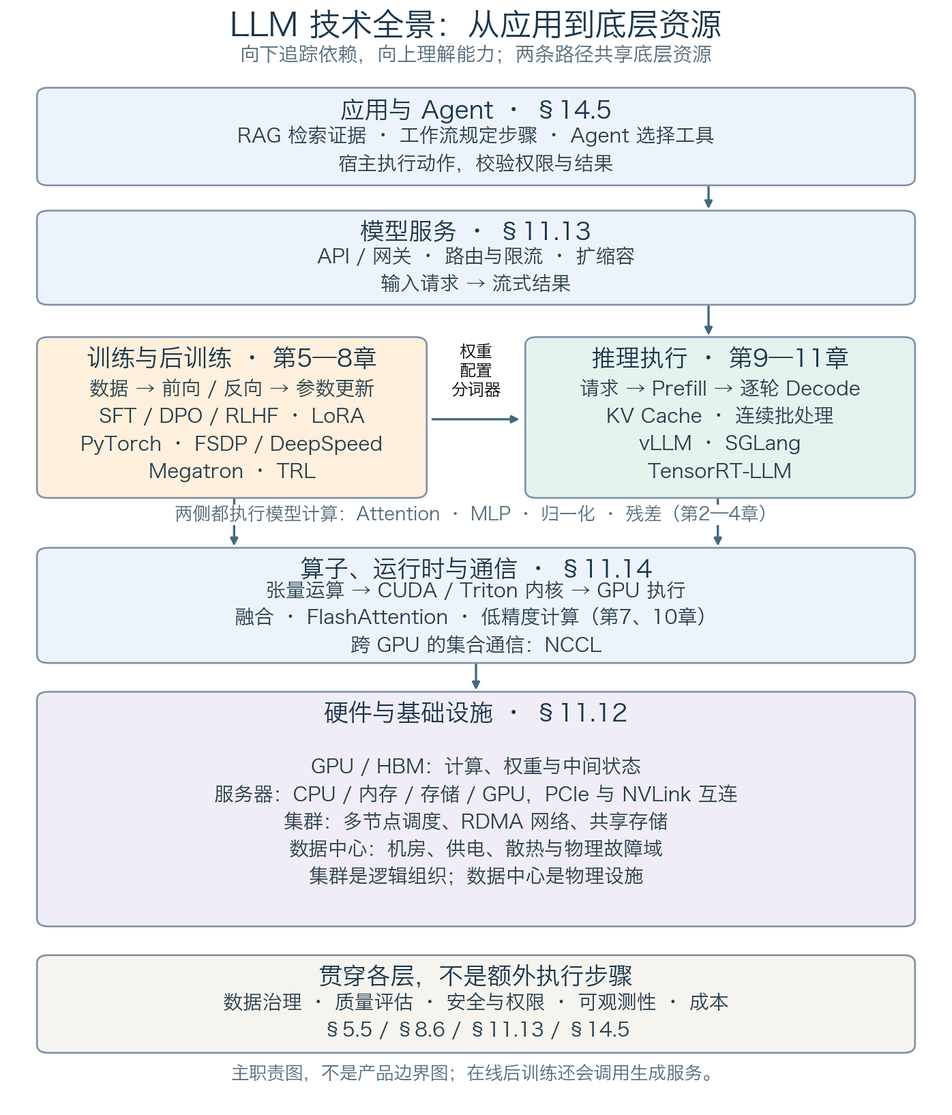
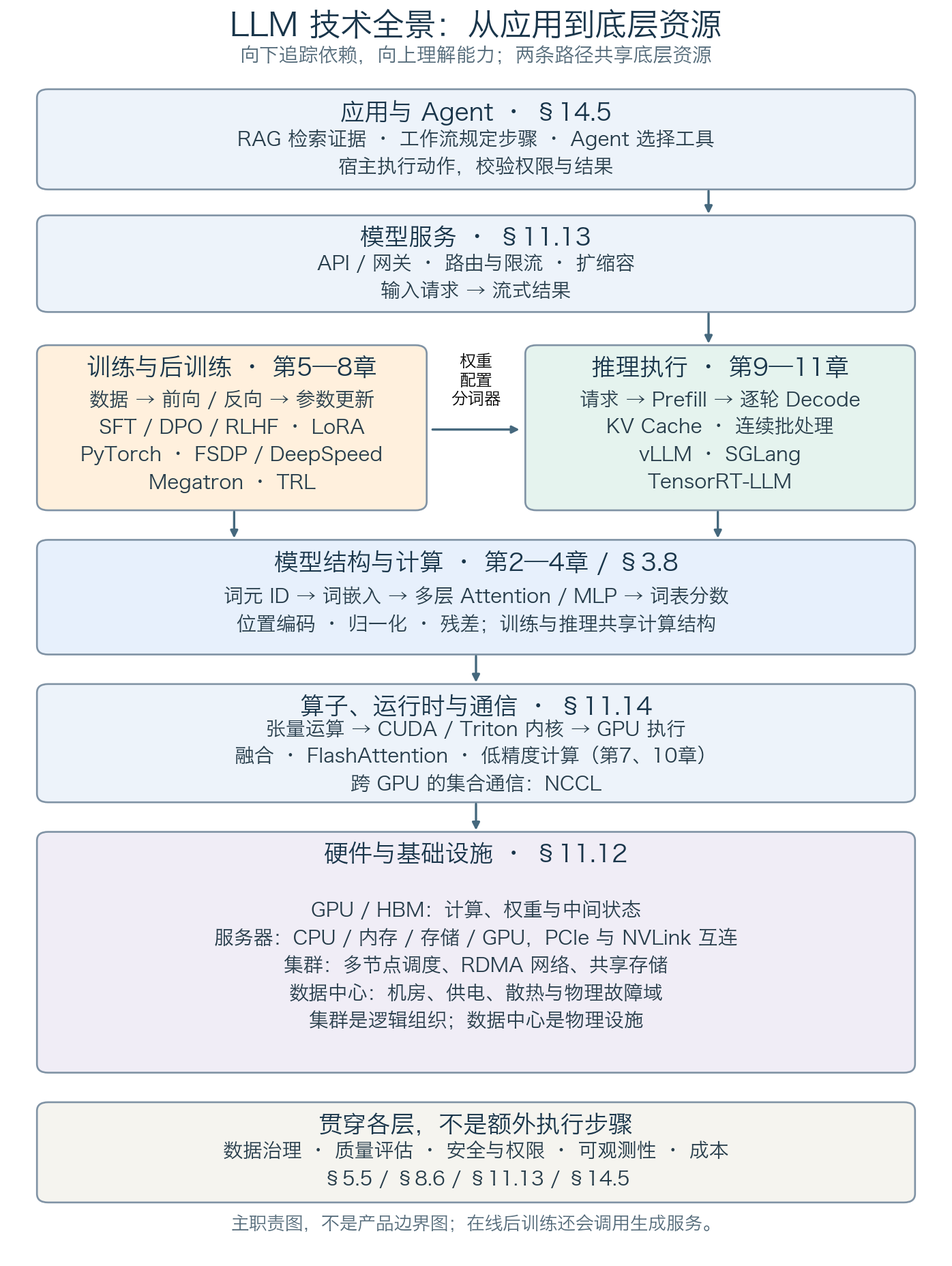
docs(map): clarify technology layers and framework workflows

Changed region(s): [[0.0308, 0.0, 0.9857, 0.811], [0.0308, 0.8422, 0.9549, 0.9982]]

diff --git a/tools/figures/llm_technology_map.py b/tools/figures/llm_technology_map.py
@@ -10,7 +10,7 @@ OUTPUT = image_path("01_introduction", "llm_technology_map.png")
 
 def main():
     use_cjk_font()
-    fig, ax = plt.subplots(figsize=(11, 13))
+    fig, ax = plt.subplots(figsize=(11, 14.8))
 
     def box(x, y, w, h, title, body, color="#edf3fa"):
         ax.add_patch(FancyBboxPatch(
@@ -41,21 +41,21 @@ def main():
         "请求 → Prefill → 逐轮 Decode\nKV Cache · 连续批处理\nvLLM · SGLang\nTensorRT-LLM", "#e5f3ee")
     arrow(4.5, 5.8, 5.5, 5.8)
     ax.text(5, 5.12, "权重\n配置\n分词器", ha="center", va="center", fontsize=11)
-    ax.text(5, 7.24, "两侧都执行模型计算：Attention · MLP · 归一化 · 残差（第2—4章）",
-            ha="center", fontsize=12, color="#536a79", zorder=5,
-            bbox=dict(facecolor="white", edgecolor="none", pad=1))
-    arrow(2.4, 6.9, 2.4, 7.65)
-    arrow(7.6, 6.9, 7.6, 7.65)
-    box(.3, 7.65, 9.4, 1.6, "算子、运行时与通信 · §11.14",
+    arrow(2.4, 6.9, 2.4, 7.35)
+    arrow(7.6, 6.9, 7.6, 7.35)
+    box(.3, 7.35, 9.4, 1.55, "模型结构与计算 · 第2—4章 / §3.8",
+        "词元 ID → 词嵌入 → 多层 Attention / MLP → 词表分数\n位置编码 · 归一化 · 残差；训练与推理共享计算结构", "#e7f0fc")
+    arrow(5, 8.9, 5, 9.35)
+    box(.3, 9.35, 9.4, 1.6, "算子、运行时与通信 · §11.14",
         "张量运算 → CUDA / Triton 内核 → GPU 执行\n融合 · FlashAttention · 低精度计算（第7、10章）\n跨 GPU 的集合通信：NCCL")
-    arrow(5, 9.25, 5, 9.7)
-    box(.3, 9.7, 9.4, 3.3, "硬件与基础设施 · §11.12",
+    arrow(5, 10.95, 5, 11.4)
+    box(.3, 11.4, 9.4, 3.3, "硬件与基础设施 · §11.12",
         "GPU / HBM：计算、权重与中间状态\n服务器：CPU / 内存 / 存储 / GPU，PCIe 与 NVLink 互连\n集群：多节点调度、RDMA 网络、共享存储\n数据中心：机房、供电、散热与物理故障域\n集群是逻辑组织；数据中心是物理设施", "#f0edf6")
-    box(.3, 13.45, 9.4, 1.35, "贯穿各层，不是额外执行步骤",
+    box(.3, 15.15, 9.4, 1.35, "贯穿各层，不是额外执行步骤",
         "数据治理 · 质量评估 · 安全与权限 · 可观测性 · 成本\n§5.5 / §8.6 / §11.13 / §14.5", "#f5f4ef")
-    ax.text(5, 15.2, "主职责图，不是产品边界图；在线后训练还会调用生成服务。",
+    ax.text(5, 16.9, "主职责图，不是产品边界图；在线后训练还会调用生成服务。",
             ha="center", fontsize=12, color="#536a79")
-    ax.set(xlim=(0, 10), ylim=(15.55, 0))
+    ax.set(xlim=(0, 10), ylim=(17.25, 0))
     ax.axis("off")
     fig.savefig(OUTPUT, dpi=160, bbox_inches="tight", facecolor="white")
     plt.close(fig)

diff --git a/tests/test_technology_map.py b/tests/test_technology_map.py
@@ -1,0 +1,47 @@
+"""技术地图的精确导航和共享模型计算层回归。"""
+
+import ast
+import re
+import unittest
+from pathlib import Path
+
+ROOT = Path(__file__).resolve().parents[1]
+MAP = ROOT / "01_introduction/1.0_technology_map.md"
+
+
+class TechnologyMapTests(unittest.TestCase):
+    def test_quick_links_land_on_specific_topics(self):
+        text = MAP.read_text(encoding="utf-8")
+        targets = {
+            "11_serving/11.12_hardware.md": ("gpu-hardware", "cluster", "data-center"),
+            "11_serving/11.14_gpu_software.md": ("gpu-kernels", "kernel-fusion", "nccl"),
+            "14_future_trends/14.5_agent_tool_use.md": ("agent-tool-call", "rag-workflow-agent"),
+            "appendix/a7_framework_recipes.md": ("distributed-frameworks",),
+            "11_serving/11.1_engines_overview.md": ("tensorrt-llm",),
+        }
+        for path, fragments in targets.items():
+            destination = (ROOT / path).read_text(encoding="utf-8")
+            for fragment in fragments:
+                with self.subTest(path=path, fragment=fragment):
+                    self.assertTrue(f"../{path}#{fragment}" in text, f"地图缺少 {fragment} 精确链接")
+                    self.assertTrue(re.search(rf'<a\s+id="{re.escape(fragment)}"\s*></a>', destination),
+                                    f"{path} 缺少 {fragment} 锚点")
+
+    def test_model_computation_is_a_box_between_execution_and_kernels(self):
+        script = ROOT / "tools/figures/llm_technology_map.py"
+        tree = ast.parse(script.read_text(encoding="utf-8"))
+        boxes = {}
+        for node in ast.walk(tree):
+            if isinstance(node, ast.Call) and isinstance(node.func, ast.Name) and node.func.id == "box":
+                if len(node.args) >= 5 and isinstance(node.args[4], ast.Constant):
+                    boxes[node.args[4].value] = ast.literal_eval(node.args[1])
+        model = [y for title, y in boxes.items() if title.startswith("模型结构与计算")]
+        self.assertEqual(len(model), 1, "共享模型计算必须是独立框，不能仅标成小字")
+        training = next(y for title, y in boxes.items() if title.startswith("训练与后训练"))
+        kernels = next(y for title, y in boxes.items() if title.startswith("算子、运行时与通信"))
+        self.assertLess(training, model[0])
+        self.assertLess(model[0], kernels)
+
+
+if __name__ == "__main__":
+    unittest.main()

diff --git a/check_project_rules.py b/check_project_rules.py
@@ -7,6 +7,7 @@ import argparse
 import re
 import sys
 from datetime import date, datetime, timedelta
+from html.parser import HTMLParser
 from pathlib import Path
 from urllib.parse import unquote, urlparse
 
@@ -134,7 +135,19 @@ def slugify_heading(text: str) -> str:
 def heading_anchors(text: str) -> set[str]:
     anchors: set[str] = set()
     counts: dict[str, int] = {}
-    for line in strip_fenced_blocks(text).splitlines():
+    prose = strip_fenced_blocks(text)
+
+    class ExplicitAnchors(HTMLParser):
+        def handle_starttag(self, tag, attrs):
+            if tag == "a":
+                anchors.update(value for name, value in attrs
+                               if name in {"id", "name"} and value)
+
+    # A matching backtick run marks code, not a rendered HTML anchor.
+    html_prose = re.sub(r"(?<!`)(`+)(?!`)(.*?)(?<!`)\1(?!`)", "", prose,
+                        flags=re.DOTALL)
+    ExplicitAnchors().feed(html_prose)
+    for line in prose.splitlines():
         match = HEADING_RE.match(line)
         if not match:
             continue

diff --git a/tests/test_check_project_rules.py b/tests/test_check_project_rules.py
@@ -18,6 +18,18 @@ def load_checker():
 
 
 class CheckProjectRulesTest(unittest.TestCase):
+    def test_explicit_html_anchors_are_valid_but_code_and_comments_are_not(self):
+        checker = load_checker()
+        anchors = checker.heading_anchors(
+            '## Topic\n\n<a id="stable-topic"></a>\n'
+            "<a name='legacy-topic'></a>\n"
+            '<!-- <a id="comment-only"></a> -->\n'
+            '```html\n<a id="example-only"></a>\n```\n'
+            '`<a id="inline-example"></a>`\n'
+            '``code with ` and <a name="double-backtick-example"></a>``\n'
+        )
+        self.assertEqual(anchors, {"topic", "stable-topic", "legacy-topic"})
+
     def test_heading_checks_catch_skipped_levels_and_wrong_first_heading(self):
         checker = load_checker()
         path = ROOT / "01_intro" / "1.1_bad.md"

diff --git a/01_introduction/1.0_technology_map.md b/01_introduction/1.0_technology_map.md
@@ -4,47 +4,52 @@
 
 ### 1.0.1 先看层次，再看两条工作路径
 
-![LLM 技术全景：应用、服务、训练与推理、算子运行时，以及 GPU 到数据中心的基础设施关系](_images/llm_technology_map.png)
+![LLM 技术全景：应用、服务、训练与推理、共享模型计算、算子运行时，以及 GPU 到数据中心的基础设施关系](_images/llm_technology_map.png)
 
 图 1-0：从应用需求向下追踪依赖。纵向箭头表示“依赖”，不是一次请求的执行顺序；横向箭头表示训练制品交给推理系统加载。基础设施框内表示组织关系，不是软件调用链。[绘图源文件](https://github.com/yeasy/llm_internals/blob/main/tools/figures/llm_technology_map.py)
 
-快速导航：[GPU／集群／数据中心](../11_serving/11.12_hardware.md) · [CUDA／Triton／NCCL](../11_serving/11.14_gpu_software.md) · [模型计算](../03_components/3.8_gpt_inference_flow.md) · [训练框架](../appendix/a7_framework_recipes.md) · [vLLM](../11_serving/11.10_vllm_internals.md) · [SGLang](../11_serving/11.11_sglang_internals.md) · [服务治理](../11_serving/11.13_best_practices.md) · [RAG／Agent](../14_future_trends/14.5_agent_tool_use.md)。各项优化技术的细分入口见下一小节。
+基础设施：[GPU](../11_serving/11.12_hardware.md#gpu-hardware) · [集群](../11_serving/11.12_hardware.md#cluster) · [数据中心](../11_serving/11.12_hardware.md#data-center)。
+
+计算与框架：[CUDA／Triton](../11_serving/11.14_gpu_software.md#gpu-kernels) · [融合／CUDA Graph](../11_serving/11.14_gpu_software.md#kernel-fusion) · [NCCL](../11_serving/11.14_gpu_software.md#nccl) · [模型计算](../03_components/3.8_gpt_inference_flow.md) · [分布式训练框架](../appendix/a7_framework_recipes.md#distributed-frameworks) · [vLLM](../11_serving/11.10_vllm_internals.md) · [SGLang](../11_serving/11.11_sglang_internals.md) · [TensorRT-LLM](../11_serving/11.1_engines_overview.md#tensorrt-llm)。
+
+服务与应用：[服务治理](../11_serving/11.13_best_practices.md) · [RAG／工作流](../14_future_trends/14.5_agent_tool_use.md#rag-workflow-agent) · [Agent 工具调用](../14_future_trends/14.5_agent_tool_use.md#agent-tool-call)。优化技术与讲解深度见下表。
 
 **自下而上看能力。** GPU 执行计算，显存保存权重与中间状态；服务器组合计算、主机内存和输入输出设备；集群把多台服务器组织成可调度的资源；数据中心提供机房、供电和散热。集群是逻辑资源组织，数据中心是物理设施，二者并非一一对应。软件在这些资源之上实现算子、模型执行、在线服务与应用。
 
-**沿两条路径看工作。** 训练读取样本，通过前向、损失、反向和参数更新产生模型；推理加载模型，处理请求并生成词元。两侧共享算子与硬件，但管理的状态不同：训练还需梯度、优化器与恢复状态，推理重点管理请求队列和 KV 缓存。RLHF 等在线后训练会反复调用生成服务，图中的两条路径并不隔绝。
+**沿两条路径看工作。** 训练读取样本，通过前向、损失、反向和参数更新产生模型。推理加载模型，先由 Prefill 处理整段输入并预测首个新词元，再由 Decode 逐轮处理已生成的词元、预测下一个。两侧共享算子与硬件，但管理的状态不同：训练还需梯度、优化器与恢复状态，推理重点管理请求队列和 KV 缓存。RLHF 等在线后训练会反复调用生成服务，图中的两条路径并不隔绝。
 
 **区分模型与框架。** Transformer 定义计算结构，PyTorch 等框架组织计算，vLLM 等引擎组织高效生成，Agent 宿主组织工具与任务。它们不是相互替代的产品。图按主要职责定位，实际软件可跨层：例如 vLLM 同时提供 API 服务入口、调度与模型执行，不能理解成只包含一个方框。其实现分工可对照 [vLLM 架构说明](https://docs.vllm.ai/en/latest/design/arch_overview/)。
 
 ### 1.0.2 图中的技术，到哪里学
 
-下表是正文入口，不是要求读者先记住的缩写表。第一次阅读可先理解各行“解决的问题”，再按章节查看计算与取舍。
+下表按职责指向正文。概念简介解释用途与边界，机制详解展开计算与设计，实践配方说明输入、执行、输出与排障；三者不等同于完整的框架使用手册。
 
 | 地图位置 | 核心技术与解决的问题 | 机制与实践入口 |
 | --- | --- | --- |
-| 硬件与基础设施 | GPU／HBM 提供计算和显存；PCIe／NVLink 连接设备；RDMA 网络与存储连接节点；数据中心提供运行条件 | [11.12 硬件、集群与数据中心](../11_serving/11.12_hardware.md) |
-| 算子与运行时 | CUDA 管理 GPU 编程与执行；Triton 编写分块内核；融合减少中间读写；NCCL 实现跨 GPU 通信 | [11.14 GPU 软件栈](../11_serving/11.14_gpu_software.md)、[7.1 集合通信](../07_distributed_training/7.1_data_parallel.md) |
+| 硬件与基础设施 | GPU／HBM 提供计算和显存；PCIe／NVLink 连接设备；RDMA 网络与存储连接节点；数据中心提供运行条件 | 机制详解：[硬件](../11_serving/11.12_hardware.md#gpu-hardware)；概念简介：[集群](../11_serving/11.12_hardware.md#cluster)、[数据中心](../11_serving/11.12_hardware.md#data-center) |
+| 算子与运行时 | CUDA 管理 GPU 编程与执行；Triton 编写分块内核；融合减少中间读写；NCCL 实现跨 GPU 通信 | 机制与算例：[内核执行](../11_serving/11.14_gpu_software.md#gpu-kernels)、[融合与 Graph](../11_serving/11.14_gpu_software.md#kernel-fusion)、[NCCL](../11_serving/11.14_gpu_software.md#nccl)、[7.1 集合通信](../07_distributed_training/7.1_data_parallel.md) |
 | 模型计算 | Attention、MLP、归一化、残差和位置编码共同把词元变成预测 | [3.8 完整推理过程](../03_components/3.8_gpt_inference_flow.md)、[第四章 位置编码](../04_position_encoding/README.md) |
-| 预训练与分布式执行 | 数据流水线、损失与优化器决定学什么；DDP、FSDP／ZeRO、张量／流水线并行决定如何分摊计算与状态 | [5.5 数据](../05_pretraining/5.5_data_pipeline.md)、[第六章 优化](../06_training_techniques/README.md)、[第七章 分布式](../07_distributed_training/README.md)、[A.7 框架配方](../appendix/a7_framework_recipes.md) |
+| 预训练与分布式执行 | 数据流水线、损失与优化器决定学什么；DDP、FSDP／ZeRO、张量／流水线并行决定如何分摊计算与状态 | 机制详解：[5.5 数据](../05_pretraining/5.5_data_pipeline.md)、[第六章 优化](../06_training_techniques/README.md)、[第七章 分布式](../07_distributed_training/README.md)；实践配方：[DDP／FSDP2、Megatron-Core／DeepSpeed](../appendix/a7_framework_recipes.md#distributed-frameworks) |
 | 后训练 | SFT 用示范监督，DPO 用偏好对，RLHF／GRPO 用奖励反馈；LoRA 是可与这些方法组合的参数更新方式 | [第八章 对齐](../08_alignment/README.md)、[A.6 核心计算实验](../appendix/a6_practice_path.md)、[A.7 框架配方](../appendix/a7_framework_recipes.md) |
 | 推理执行 | GQA／MQA 减少 KV 头数，KV Cache 避免重复计算；FlashAttention 减少注意力访存；FP8 等量化降低表示开销；投机解码尝试减少串行等待 | [GQA／MQA](../02_attention/2.3_multi_head.md)、[KV Cache](../10_inference_optimization/10.2_kv_cache.md)、[FlashAttention](../10_inference_optimization/10.3_flash_attention.md)、[FP8 与量化](../10_inference_optimization/10.4_quantization.md)、[投机解码](../10_inference_optimization/10.6_speculative_decoding.md) |
-| 推理引擎 | PagedAttention 管理分页 KV 的访问，Continuous Batching 动态组织请求；vLLM、SGLang、TensorRT-LLM 集成执行机制 | [11.1 引擎比较](../11_serving/11.1_engines_overview.md)、[11.2 连续批处理](../11_serving/11.2_continuous_batching.md)、[11.4 KV 管理](../11_serving/11.4_kv_memory_management.md)、[11.10 vLLM](../11_serving/11.10_vllm_internals.md)、[11.11 SGLang](../11_serving/11.11_sglang_internals.md) |
+| 推理引擎 | PagedAttention 管理分页 KV 的访问，Continuous Batching 动态组织请求；vLLM、SGLang、TensorRT-LLM 集成执行机制 | 机制详解：[连续批处理](../11_serving/11.2_continuous_batching.md)、[KV 管理](../11_serving/11.4_kv_memory_management.md)、[vLLM](../11_serving/11.10_vllm_internals.md)、[SGLang](../11_serving/11.11_sglang_internals.md)；执行路径与选型：[TensorRT-LLM](../11_serving/11.1_engines_overview.md#tensorrt-llm)；实践配方：[A.7](../appendix/a7_framework_recipes.md) |
 | 模型服务 | API、网关、词元感知路由、限流和扩缩容，将引擎能力变成可用服务 | [11.13 服务最佳实践](../11_serving/11.13_best_practices.md) |
-| 应用与 Agent | RAG 把外部证据带入上下文；工作流规定步骤；Agent 在约束下选择工具与下一步，由宿主执行 | [12.3 检索与重排](../12_encoder_models/12.3_longformer_bigbird.md)、[14.5 工具、Agent 与 RAG](../14_future_trends/14.5_agent_tool_use.md) |
+| 应用与 Agent | RAG 把外部证据带入上下文；工作流规定步骤；Agent 在约束下选择工具与下一步，由宿主执行 | 机制与算例：[检索与重排](../12_encoder_models/12.3_longformer_bigbird.md)、[RAG 闭环](../14_future_trends/14.5_agent_tool_use.md#rag-workflow-agent)、[工具调用](../14_future_trends/14.5_agent_tool_use.md#agent-tool-call) |
 | 贯穿各层 | 数据治理、质量评估、安全、可观测性和成本决定系统能否持续使用，不是最后才增加的一层 | [5.5 数据治理](../05_pretraining/5.5_data_pipeline.md)、[8.6 评估](../08_alignment/8.6_evaluation.md)、[11.13 运行治理](../11_serving/11.13_best_practices.md)、[14.5 工具权限](../14_future_trends/14.5_agent_tool_use.md) |
 
 PyTorch、FSDP、DeepSpeed、Megatron 和 TRL 的职责及组合方式集中在 A.7，不要求每个项目都使用整套工具。先选需要的机制，再选能支持该机制、模型与硬件的实现。
 
 ### 1.0.3 用一个问题串起整张地图
 
-假设用户询问“公司的差旅住宿上限是多少”，系统需要读取内部制度：
+假设用户询问“公司的差旅住宿上限是多少”。模型已在服务启动时加载，本次请求按以下顺序执行：
 
 1. **应用整理任务。** RAG 检索当前用户有权读取的制度片段，将来源与问题放入上下文；固定的检索问答流程不一定需要 Agent。
 2. **服务接收请求。** 网关校验身份和配额，路由到可用模型实例。这里处理的是请求，不是矩阵。
-3. **引擎安排计算。** 调度器分配计算批次和 KV 空间，先做 Prefill，再逐轮 Decode。批处理和缓存改变执行效率，不替代模型公式。
-4. **模型执行算子。** Attention、MLP 等张量运算落到 GPU 内核；多卡模型在需要的地方通信。输入与输出矩阵的维度见 3.8 节。
-5. **基础设施搬运数据。** GPU 使用显存中的权重和状态，服务器、网络与存储负责相应资源和传输；网络拥塞、加载缓慢或显存不足会表现为不同的上层症状。
-6. **应用检查并交付。** 宿主返回答案与引用；若需要执行报销等动作，则另行校验参数、权限与授权，不能把模型生成的调用当作执行许可。
+3. **Prefill：处理整段输入。** 引擎安排批次与 KV 空间，将问题和制度片段送入模型；模型计算各层表示、建立 KV 缓存，利用最后位置的输出预测首个新词元。
+4. **Decode：继续生成。** 每轮输入上一轮生成的词元，读取并更新 KV 缓存，完成模型前向并预测下一个词元；结果可立即流式返回，不必等待完整答案。重复直到满足停止条件，随后回收请求状态；可复用的前缀缓存可按引擎策略保留。
+5. **应用检查并交付。** 应用展示答案与引用；若需要执行报销等动作，则另行校验参数、权限与授权，不能把模型生成的调用当作执行许可。
+
+步骤 3、4 每次都包含同一条计算链：**模型张量运算 → GPU 内核与必要的跨卡通信 → 计算结果**。GPU 从显存读取权重与状态，网络在跨节点计算时传输数据；这些工作发生在 Prefill／Decode 内部，不是生成结束后的另两个阶段。输入与输出矩阵的维度、具体计算和 KV 缓存更新见 [3.8 节](../03_components/3.8_gpt_inference_flow.md)。
 
 模型权重在上线前由训练路径产生；这次问答通常不更新权重。检索到新制度、复用 KV 缓存和把知识训练进模型，是三个不同过程。
 

diff --git a/appendix/a7_framework_recipes.md b/appendix/a7_framework_recipes.md
@@ -157,6 +157,8 @@ restored = PeftModel.from_pretrained(
 
 **排障。** loss 为零先查所有 labels 是否被屏蔽；OOM 先减长度与微批，再评估激活检查点；目标模块不匹配先打印模型模块名，不随意替换名字。若训练 loss 下降但保留集变差，回到 [8.5 节](../08_alignment/8.5_practice.md)检查遗忘、污染与风格模仿。本例关闭中间检查点，只适合短实验；正式长任务必须补齐并演练[训练状态恢复](../07_distributed_training/7.7_checkpoint.md)。
 
+<a id="distributed-frameworks"></a>
+
 ### A.7.3 从 DDP 到分片：由内存账单决定
 
 **目标与环境。** 先在单机多卡保持更新语义，再减少每卡模型状态。DDP 复制模型并同步梯度；FSDP2 分片参数、梯度与优化器状态。选择前先区分峰值来自状态、激活还是临时工作区，见 [7.2 节](../07_distributed_training/7.2_zero.md)。激活已经占主导时，分片并不直接解决主要问题。
@@ -201,7 +203,27 @@ def prepare(model, blocks, mode):
 
 **故障定位。** 启动即 OOM 查模型加载与首个 all-gather；反向 OOM 查激活、预取与分片单元大小；偶发卡死查首个报错 rank、数据迭代长度和 collective 次序；扩卡变慢查通信暴露时间与数据供给。只把整个模型包成一个 FSDP 单元，会失去逐层释放与重叠的主要收益。
 
-跨节点且需要张量、流水线、上下文或专家并行时，再考虑 [Megatron-Core](https://docs.nvidia.com/megatron-core/developer-guide/latest/user-guide/index.html)：它提供这些并行构件，但要求配套模型、数据与检查点工作流。已有 Transformers/Trainer 工作流、主要需要 ZeRO 或卸载时，可以评估 [DeepSpeed ZeRO](https://www.deepspeed.ai/tutorials/zero/)。这不是“框架排行”：卸载把容量压力转到 CPU 内存与互连，多维并行引入拓扑与调度成本；单卡或 DDP 已满足预算时，不应为复杂性付费。
+#### Megatron-Core：把并行布局接到训练循环
+
+[Megatron-Core](https://docs.nvidia.com/megatron-core/developer-guide/latest/)提供可组合的 Transformer 层、并行通信、流水线调度和分布式优化器；Megatron-LM 是使用这些构件的参考训练实现。它适合需要张量并行（TP）、流水线并行（PP）、上下文并行（CP）或专家并行（EP）的模型与集群，不能只给前面的 Trainer 加一个开关就完成迁移。并行机制见第 7 章，这里关注构件如何形成完整任务。
+
+**输入与运行路径。** 先准备模型结构、分词器、数据划分、精度和并行配置；从头预训练可随机初始化，微调则需要映射到目标架构的预训练权重。Megatron-LM 的经典预训练数据路径将文本预处理为 `.bin`/`.idx`，不是直接把前述 SFT JSONL 当成训练输入，见[快速入门](https://docs.nvidia.com/megatron-core/developer-guide/latest/get-started/quickstart.html)。启动器创建各 rank，初始化通信组；模型按 TP/PP 等布局实例化，数据加载器按数据并行（DP）分样本；流水线调度器组织微批的前向与反向，优化器完成同步后的更新，检查点系统保存各 rank 的状态。先沿官方最小训练循环接通这条路径，再接真实数据与完整模型。
+
+**拓扑示例。** 对不启用 CP、EP 的稠密模型，16 卡可组成 `TP=4、PP=2、DP=2`：每个副本有两段流水线，每段四卡切张量，两个副本读取不同样本。这只是可检查的布局示意，不是通用最优配置。TP 优先放在高带宽互连域内；PP 要评估阶段负载与微批数量，长序列激活压力再考虑 CP，MoE 才评估 EP，依据[并行策略](https://docs.nvidia.com/megatron-core/developer-guide/latest/user-guide/parallelism-guide.html)与[性能指南](https://docs.nvidia.com/nemo/megatron-bridge/latest/performance-guide.html)。扩卡后先确认实际通信组与预期一致，再测暴露的通信时间、流水线空泡和有效词元吞吐。
+
+**检查点与导出。** 分布式训练检查点用于恢复模型、优化器及训练进度；完整恢复还要保存并核对随机数与数据采样状态，见 [7.7 节](../07_distributed_training/7.7_checkpoint.md)。能否换拓扑续训，还受[优化器检查点格式](https://docs.nvidia.com/megatron-core/developer-guide/latest/api-guide/core/dist_checkpointing.html)与[数据加载状态](https://docs.nvidia.com/nemo/megatron-bridge/latest/training/checkpointing.html)限制，不能从“支持分片加载”推断全部状态可任意重分片。交给 vLLM、SGLang 或 TensorRT-LLM 前，要另行导出目标格式；[Megatron Bridge](https://docs.nvidia.com/nemo/megatron-bridge/latest/bridge-tech-details.html)为受支持架构处理配置、参数名称、QKV 布局与并行分片的转换。导出后用相同输入词元比较 logits 或确定性输出，并在保留集复评；文件能加载不等于转换正确。
+
+**验收与排障。** 先做小批的一步更新对照和同拓扑中断恢复，再扩大规模。loss 异常先查词元、掩码与损失分母；启动长时间等待先查[数据索引构建与共享缓存](https://docs.nvidia.com/megatron-core/developer-guide/latest/user-guide/data-loading.html)；计算卡死查首个报错 rank、通信组与 collective 次序；GPU 空等查流水线不均衡、微批不足与数据供给。多种并行同时打开会扩大排查空间，应逐项加入并留下对照。
+
+#### DeepSpeed：按状态开销选择 ZeRO 与卸载
+
+**输入与运行路径。** 保留已有 PyTorch 模型与数据处理，增加 DeepSpeed 配置，明确微批、梯度累积、精度、优化器和 `zero_optimization`。自写循环通过 `deepspeed.initialize` 得到 engine，前向后由 engine 的 `backward` 与 `step` 管理梯度同步和更新，见[训练入口](https://www.deepspeed.ai/getting-started/)。Trainer 集成则传入 `deepspeed` 配置，由 Trainer 驱动；两条路径不要混用。使用集成支持的 `"auto"` 对齐批量、学习率等共同字段，或确保显式值一致，并核对最终生效配置，见 [Transformers 集成指南](https://huggingface.co/docs/transformers/deepspeed)。
+
+**选择示例。** 权重可常驻但训练状态超预算时，先评估 ZeRO-1/2；参数本身也成为瓶颈时再评估 ZeRO-3。[ZeRO](https://www.deepspeed.ai/tutorials/zero/)的三个阶段依次分片优化器状态、梯度和参数，ZeRO-3 在计算时按需收集参数。若优化器仍挤占显存，可试 `offload_optimizer` 的 CPU 卸载；参数卸载 `offload_param` 属于 ZeRO-3 路径，见[集成配置](https://huggingface.co/docs/transformers/deepspeed)。例如，ZeRO-2 已能放下模型时，先比较有无 CPU 优化器卸载的峰值显存与 step 时间；容量收益必须连同 CPU 内存、计算及数据传输成本一起衡量，见 [ZeRO-Offload](https://www.deepspeed.ai/tutorials/zero-offload/)。激活占主导时，仍回到长度、微批和重算策略，不能只升 ZeRO 阶段。
+
+**保存与交付。** engine 的训练检查点包含分片状态，原生 `save_checkpoint` 要由所有进程参与，单独让 rank 0 调用会等待其他 rank。用于推理时，要另存常规模型权重；ZeRO-3 的 16 位权重保存需按集成配置收集分片，或用[官方权重恢复工具](https://deepspeed.readthedocs.io/en/latest/model-checkpointing.html)从 ZeRO 检查点恢复完整 `state_dict`，并预算 CPU 内存。再配齐模型配置与分词器，重载复评，不能把任意一个 rank 的文件当完整模型。
+
+**验收与排障。** 对照相同有效批量的一步更新，验证检查点恢复和推理导出两条路径；同时量显存、主机内存与稳态 step 时间。初始化 OOM 查分片加载是否真正生效；卸载后变慢查 CPU 优化器、主机内存与传输；保存卡死查所有 rank 是否进入同一保存调用。单卡或 DDP 已满足预算时，保留较简单的路径；选择框架的依据是瓶颈与完整交付成本。
 
 ### A.7.4 DPO 与 GRPO：先检查学习信号
 

diff --git a/11_serving/11.1_engines_overview.md b/11_serving/11.1_engines_overview.md
@@ -71,7 +71,7 @@ $$
 | --- | --- | --- | --- | --- |
 | vLLM | 出自加州大学伯克利分校，是 PagedAttention 论文的实现，后成为社区项目；通用的在线服务 | 按块哈希：块的键由父块哈希、本块词元和额外键算出，只缓存写满的块 | PyTorch 模型默认经 `torch.compile` 编译，加分段与整图的 CUDA/HIP Graph；`--enforce-eager` 才退回即时执行 | NVIDIA、AMD、Intel 的 GPU 与多种 CPU；TPU、Gaudi、昇腾等经插件支持 |
 | SGLang | 起于“LLM 程序”的执行：前端语言加运行时，面向多次调用、分支与结构化输出 | 前缀树（RadixAttention）：请求结束后 KV 留在树里，按 LRU 淘汰 | PyTorch 运行时，CPU 调度与 GPU 计算重叠 | NVIDIA、AMD 的 GPU，Intel CPU、TPU、昇腾等 |
-| TensorRT-LLM | NVIDIA 官方；围绕自家 GPU 的内核与 FP8、FP4 低精度 | 分页 KV 缓存，带块复用 | 现以 PyTorch 为基础架构；早期路径是先把模型编译成 TensorRT engine | 只支持 NVIDIA GPU |
+| TensorRT-LLM | NVIDIA 官方；围绕自家 GPU 的内核与 FP8、FP4 低精度 | 分页 KV 缓存，带块复用 | PyTorch 后端直接加载模型 checkpoint；旧版 TensorRT engine 路径见下文 | 只支持 NVIDIA GPU |
 | llama.cpp | 本地与边缘部署；纯 C/C++ 实现，无外部依赖。Ollama 以它为后端 | 服务端按槽位（slot）处理并发；`cache_prompt` 默认开启，新请求与槽位里上一次的 Prompt 比较，只重算不同的后缀 | GGUF 格式的整数量化权重（1.5 到 8 比特）；CPU 与 GPU 混合推理 | x86 与 ARM CPU、Apple Silicon、各类 GPU |
 
 表 11-2：主流推理引擎的定位与设计取舍。各项均取自项目的论文、README 或设计文档；版本相关的细节见 11.10、11.11 节。
@@ -83,6 +83,20 @@ $$
 **已退居历史的两个名字。** TGI（Text Generation Inference）是 Hugging Face 用 Rust、Python 和 gRPC 写的推理服务器。它内置连续批处理，README 称用于其生产环境。项目现已转入维护模式，[README](https://github.com/huggingface/text-generation-inference) 建议改用 vLLM、SGLang 或 llama.cpp 等本地引擎。DeepSpeed-FastGen 提出 Dynamic SplitFuse（机制见 11.2.5）。其[论文](https://arxiv.org/abs/2401.08671)报告有效吞吐最高 2.3 倍、平均延迟减半、词元级尾延迟最多降到 1/3.7。基线是当时的 vLLM，那一版一次前向要么全做 Prefill、要么全做 Decode。vLLM 此后也加入了分块 Prefill，这组数字不宜外推。
 
 vLLM 是应用很广的开源引擎，但大型闭源服务商的内部部署栈通常不公开，不应据此推断其生产环境用的是哪一款。
+
+<a id="tensorrt-llm"></a>
+
+#### TensorRT-LLM：从权重到服务
+
+**输入与产物。** 起点是受支持模型的完整权重、模型配置与分词器；量化模型还要有匹配的量化配置和缩放因子。[官方快速入门](https://nvidia.github.io/TensorRT-LLM/latest/quick-start-guide.html)允许 `LLM` 加载本地 Hugging Face 模型目录或受支持的量化 checkpoint，在线服务入口是 `trtllm-serve`。训练时的优化器分片与恢复状态不属于这个输入契约；训练框架应先导出推理权重，见 [A.7.3](../appendix/a7_framework_recipes.md#distributed-frameworks)。
+
+不要从名称推断它必然需要预先编译 engine。[后端迁移指南](https://nvidia.github.io/TensorRT-LLM/latest/legacy/tensorrt-backend-removal.html)已移除 TensorRT engine 后端，PyTorch 路径直接加载 checkpoint。旧版资料中的“原始权重 → TensorRT-LLM checkpoint → 构建 engine → 运行”是[历史构建流程](https://nvidia.github.io/TensorRT-LLM/latest/legacy/architecture/workflow.html)；engine 是推理执行产物，不是可续训的检查点。维护旧服务时，必须使用相同版本的示例与运行库，不能把旧版转换脚本拼接到新入口。
+
+**启动与请求路径。** 启动时加载权重，确定精度与并行布局，并配置 KV 容量、最大批量和词元预算，参数含义见[服务入口](https://nvidia.github.io/TensorRT-LLM/latest/commands/trtllm-serve/trtllm-serve.html)。运行时每个 rank 有一个 `PyExecutor` 工作进程：它从队列取请求，由 `Scheduler` 选本轮工作、`KVCacheManager` 准备缓存块、`ModelEngine` 执行前向、`Sampler` 从 logits 选词元，再更新输出并处理结束请求。[架构说明](https://nvidia.github.io/TensorRT-LLM/latest/developer-guide/overview.html)把这些职责分开；CUDA Graph 与重叠调度优化的是这个循环，不改变请求的输入输出契约。分页、调度和多卡通信的原理分别见 11.3、11.4、11.8 节。
+
+**优化与验收。** 先用受支持的高精度配置核对分词、聊天模板、停止条件和保留集质量，再逐项加入量化、多卡或前缀复用。量化的权重格式、缩放方式与可用内核必须匹配，不能只改一个 `dtype` 就把普通权重变成量化 checkpoint，见[量化说明](https://nvidia.github.io/TensorRT-LLM/latest/features/quantization.html)。模型支持也不代表所有优化可同时使用，应查[功能组合矩阵](https://nvidia.github.io/TensorRT-LLM/latest/features/feature-combination-matrix.html)。例如，单卡已能容纳权重时，先测单卡基线，再比较两卡 TP 与两份单卡副本；是否值得切模型，取决于延迟目标、KV 容量和通信代价，不能只按卡数判断。
+
+**故障边界。** 加载失败先查架构、权重格式与软件/硬件支持；启动 OOM 查权重、工作区和 Graph 的预算；长请求或高并发才出现容量问题，再查 KV 块、准入与抢占。输出异常先对齐输入词元、模板和采样参数，随后查量化误差。性能验收仍按 [11.13 节](11.13_best_practices.md)重放相同负载，报告质量、错误率与 TTFT/TPOT；框架名称不能代替对照实验。
 
 ### 11.1.4 选型：先看请求形态，再看引擎
 

diff --git a/11_serving/11.14_gpu_software.md b/11_serving/11.14_gpu_software.md
@@ -2,6 +2,8 @@
 
 张量公式规定计算什么，GPU 软件栈决定如何执行。排查推理性能，需要把框架算子、设备程序、任务提交和跨卡通信分开：同一个矩阵乘法变慢，可能来自内核选择，也可能来自提交间隙或等待其他 GPU。
 
+<a id="gpu-kernels"></a>
+
 ### 11.14.1 从 PyTorch 算子到 GPU
 
 算子是加法、矩阵乘法等张量操作；内核（kernel）是在 GPU 上执行的设备函数，两者并非一一对应。PyTorch 的派发器依据张量设备和自动求导等状态选择实现；该实现可以调用已有计算库，也可以启动一个或多个内核。具体派发机制见 [PyTorch 官方教程](https://docs.pytorch.org/tutorials/advanced/dispatcher)。
@@ -11,6 +13,8 @@
 `torch.compile` 增加了编译路径：TorchDynamo 捕获计算图，默认后端 TorchInductor 优化并生成代码，GPU 路径使用 Triton 作为重要组件。这里的 Triton 是编写、编译 GPU 内核的语言与编译器；[NVIDIA Triton Inference Server](https://docs.nvidia.com/deeplearning/triton-inference-server/user-guide/docs/index.html)则是提供模型推理服务的软件，两者职责不同。编译也不意味着所有操作都会变成一个内核，见 [PyTorch 编译器文档](https://docs.pytorch.org/docs/main/user_guide/torch_compiler/torch.compiler.html)。
 
 应据此区分两种图：框架计算图描述张量操作及数据依赖，供编译器分析和改写；CUDA Graph 描述设备工作的提交依赖，供运行时反复执行。捕获到框架图只是编译入口，并不能据此判断已经消除了中间张量，也不能证明服务请求的排队时间变短。
+
+<a id="kernel-fusion"></a>
 
 ### 11.14.2 分块与融合：一次向量计算的账
 
@@ -22,6 +26,14 @@
 
 融合（fusion）因此改变计算的内核边界，消除中间读写；它不保证加速，收益取决于形状、缓存、寄存器压力和原有实现。[CUDA Graph](https://docs.nvidia.com/cuda/cuda-programming-guide/04-special-topics/cuda-graphs.html)则记录操作及依赖、实例化后重复提交，主要摊薄启动准备开销；它可以仍包含多个内核，不会仅因捕获就消除 `t`。两种优化可以组合，不能互相替代。
 
+以 PyTorch 常见的捕获/重放（capture/replay）路径为例，应先在旁路流预热，再捕获形状、布局和控制流稳定的区域，并长期持有输入、输出缓冲区，保证重放使用同一内存地址。新请求可以把新 token 值复制到原输入缓冲区；改变值并不等于可以改变捕获时的批大小、布局或 Python 分支，见 [PyTorch CUDA Graph 使用说明](https://docs.pytorch.org/docs/main/notes/cuda.html#cuda-graphs)。
+
+动态请求可按形状分桶，为各桶捕获图，并用填充适配实际批次。例如只捕获批大小 1、4、8，3 个请求填充到 4 后使用对应图，并正确屏蔽填充项；也可只捕获稳定子区域，对未覆盖形状或不支持的操作回退普通 eager 执行。参见 [PyTorch 动态形状说明](https://docs.pytorch.org/docs/main/user_guide/torch_compiler/torch.compiler_cudagraph_trees.html#dynamic-shape-support)、[局部捕获](https://docs.pytorch.org/docs/main/notes/cuda.html#partial-network-capture)和 [NVIDIA 批大小调优示例](https://nvidia.github.io/TensorRT-LLM/latest/blogs/tech_blog/blog20_Tuning_CUDA_Graph_Batch_Sizes_for_Higher_Output_Throughput.html)。维护多份图及长期缓冲区可能增加显存占用，填充增加无效计算，反复捕获也有成本；收益取决于形状复用率及 CPU 提交是否构成瓶颈。
+
+上述条件针对常见框架路径。CUDA 底层还提供受约束的 [图更新](https://docs.nvidia.com/cuda/cuda-programming-guide/04-special-topics/cuda-graphs.html#updating-instantiated-graphs)和 [条件节点](https://docs.nvidia.com/cuda/cuda-programming-guide/04-special-topics/cuda-graphs.html#conditional-graph-nodes)，可修改部分节点参数或表达设备端分支、循环；不能据此断言所有 CUDA Graph 都只支持静态工作负载。
+
+<a id="nccl"></a>
+
 ### 11.14.3 NCCL：让多张卡交换结果
 
 NCCL 是 GPU 通信库，提供 AllReduce、AllGather、ReduceScatter 等集合通信，即参与设备共同完成约定的数据交换或归约。例如两张卡分别持有 `[1, 2]` 和 `[3, 4]`，求和 AllReduce 后两卡都得到 `[4, 6]`；张量并行为何需要这类操作，见 [11.8 节](11.8_multi_gpu_inference.md)。
@@ -32,4 +44,4 @@ NCCL 根据拓扑组织传输与计算；NVLink、PCIe、InfiniBand 等互连承
 
 先固定输入形状、精度和批量，核对输出，再区分首次编译与稳定执行。随后检查时间线：GPU 内核之间有空隙，追查 CPU 提交、同步和依赖；单个内核耗时长，比较计算量、访存量和实际吞吐；大量短内核连续出现，评估融合与 Graph；跨卡等待占主导，再核对通信量、拓扑及各卡到达集合操作的时间。先定位等待发生在哪一层，再改对应配置，避免把计算、启动和通信问题都归因于“GPU 不够快”。
 
-前述算例给出了可检查的预期：融合后应少一个内核和中间张量读写；启用 Graph 后应检查提交开销是否下降；调整多卡通信后应检查暴露在关键路径上的等待是否减少。最后回到相同负载下的端到端延迟与吞吐。局部流量减少是机制证据，整条请求变快才是服务收益，两项需要分别记录。
+前述算例给出了可检查的预期：融合后应少一个内核和中间张量读写；启用 Graph 后应检查提交开销是否下降，以及图覆盖的批次、重捕获与回退频率、填充比例和显存增量；调整多卡通信后应检查暴露在关键路径上的等待是否减少。最后回到相同负载下的端到端延迟与吞吐。局部流量减少是机制证据，整条请求变快才是服务收益，两项需要分别记录。

diff --git a/14_future_trends/14.5_agent_tool_use.md b/14_future_trends/14.5_agent_tool_use.md
@@ -14,6 +14,8 @@
 
 后两条不是“知识”的缺陷，而是“模型只能生成词元”这一事实的直接后果。Agent 的核心思想是把 LLM 当作推理与决策引擎，由宿主执行它选中的动作，再把结果回灌。
 
+<a id="agent-tool-call"></a>
+
 ### 14.5.2 一次工具调用在词元层发生了什么
 
 **工具调用**（Function Calling / Tool Use）的全部机制可以用一个公开的聊天模板讲完。下面以 Qwen3 的 `tokenizer_config.json` 里的 `chat_template` 为例，它的每一步都能在文件里找到对应的 Jinja 分支。
@@ -228,6 +230,8 @@ Agent 的工作模式与常规对话差别很大，对引擎（[第十一章](..
 - **上下文膨胀导致的退化**：轮次多了之后早期指令被稀释，与 [14.7 节](14.7_long_context.md)讨论的长上下文问题同源。
 
 公开评测各有侧重：BFCL 侧重函数调用的格式与选择正确性，$\tau$-bench 侧重多轮对话中遵守策略地完成任务，SWE-bench 侧重在真实代码仓库上完成可验证的修改。三者测的是链路的不同长度，分数不可互相换算。
+
+<a id="rag-workflow-agent"></a>
 
 ### 14.5.10 RAG、工作流与 Agent 的边界
 
